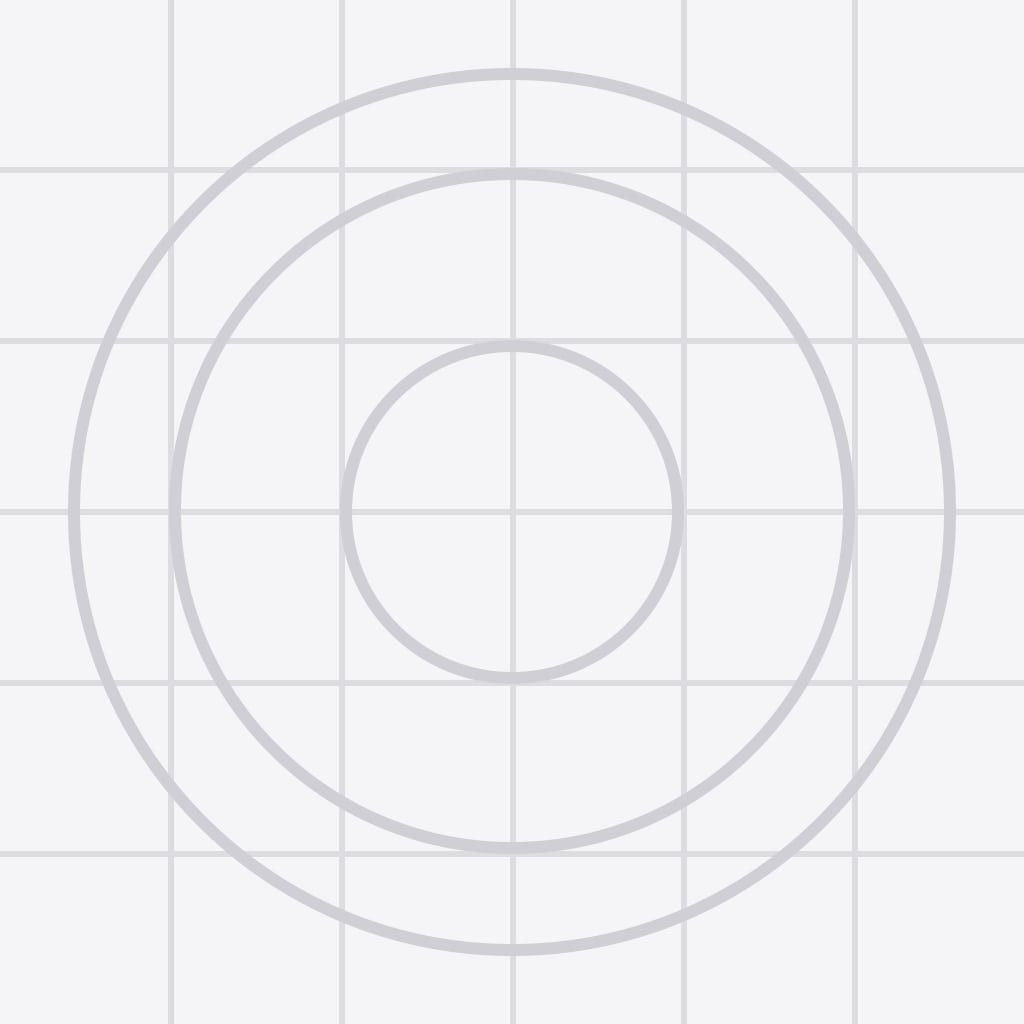
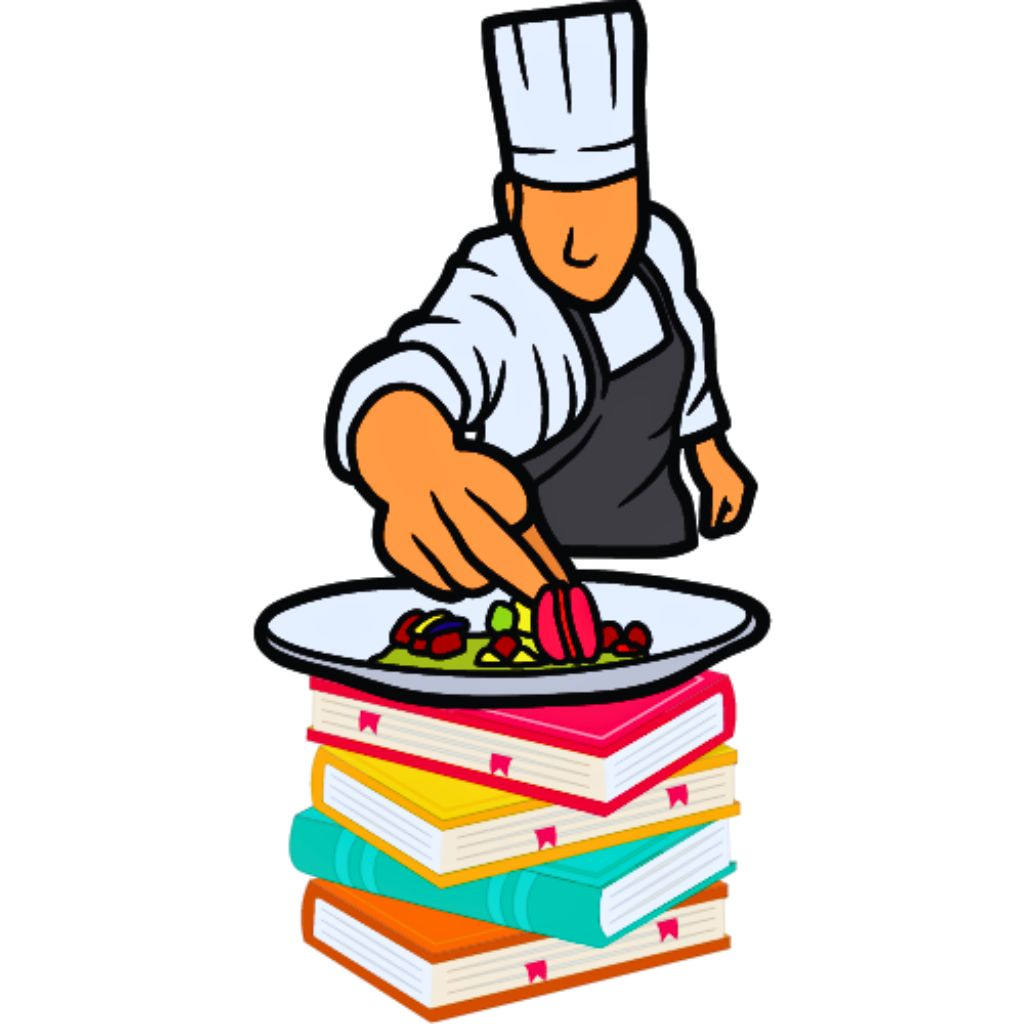
Updated Code

diff --git a/newcb/Entry.js b/newcb/Entry.js
@@ -85,10 +85,10 @@ function HomeNav() {
 }
 
 function SubCategoryNav() {
-  const [path, setPath] = useState(require("./imgs/heart_w.jpg"));
-  const IdContext = useContext([]);
-  const Data = useContext(UserContext);
-  let ID;  
+  // const [path, setPath] = useState(require("./imgs/heart_w.jpg"));
+  // const IdContext = useContext([]);
+  // const Data = useContext(UserContext);
+  // let ID;  
 
   /* Store Data */
   // const storeData = async (localid,name) => {
